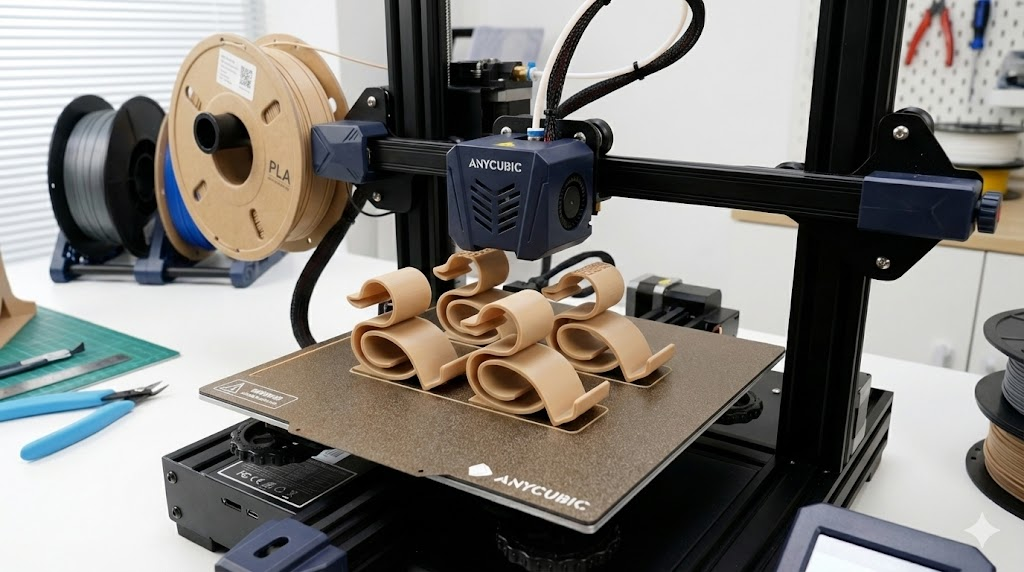
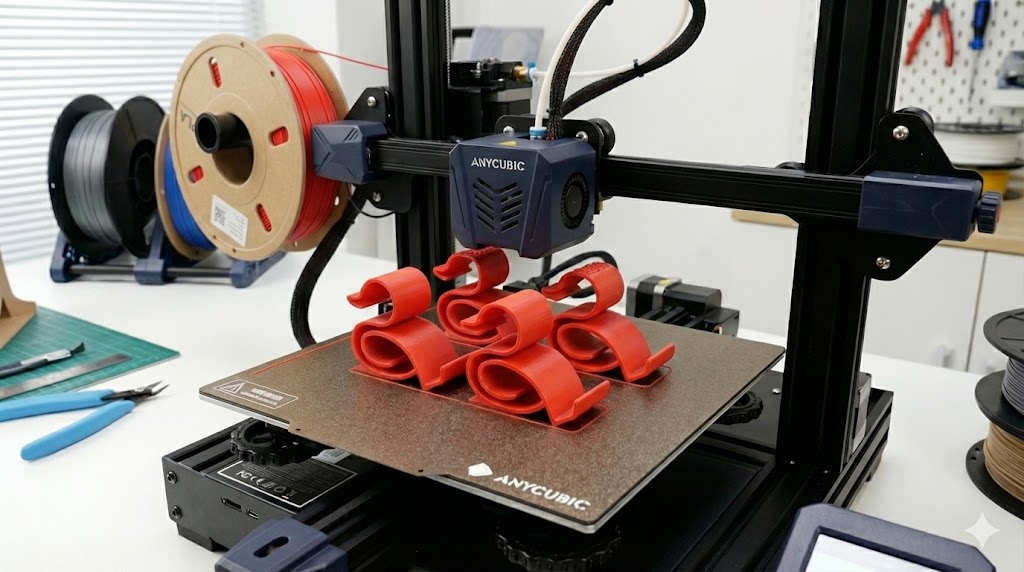
chore: make it red

diff --git a/index.html b/index.html
@@ -44,7 +44,7 @@
             </div>
             <div class="logo-text">
               <span>Zenika phone stand</span>
-              <small>support téléphone en PLA bois</small>
+              <small>support téléphone en PLA</small>
             </div>
           </div>
           <div class="nav-cta">
@@ -57,7 +57,7 @@
 
         <div class="hero-content">
           <div class="hero-copy">
-            <p class="tagline">Édition limitée · impression 3D PLA bois</p>
+            <p class="tagline">Édition limitée · impression 3D PLA</p>
             <h1>
               Le support de téléphone<br />
               qui fait parler la technologie.
@@ -65,11 +65,11 @@
             <p class="lead">
               Imaginé comme un petit totem de bureau, le Zenika phone stand est un produit né de la 
               collaboration de l'humain et de l'IA, modélisé sous Fusion&nbsp;360 puis
-              imprimé en filament PLA bois. 
+              imprimé en filament PLA biodégradable. 
               <br/>Un objet simple en apparence, qui a mobilisé compétences et expertises.
             </p>
             <ul class="hero-features">
-              <li>Grain de bois réel &amp; toucher doux</li>
+              <li>Grain fin &amp; toucher doux</li>
               <li>Imprimé localement en petite série</li>
               <li>Conçu pour embellir votre espace</li>
             </ul>
@@ -113,7 +113,7 @@
         <section class="section section-timeline" id="timeline">
           <div class="section-heading">
             <p class="eyebrow">Making-of</p>
-            <h2>De l’idée au support en PLA bois posé sur votre table.</h2>
+            <h2>De l’idée au support en PLA posé sur votre table.</h2>
           </div>
 
           <div class="timeline">
@@ -167,15 +167,17 @@
             <article class="timeline-item">
               <div class="timeline-dot"></div>
               <div class="timeline-content">
-                <h3>Impression 3D en PLA bois</h3>
+                <h3>Impression 3D en PLA</h3>
                 <p>
-                  Chaque pièce est imprimée en PLA bois, légèrement poncée et dépoussiérée.
+                  Chaque pièce est imprimée en PLA, légèrement poncée et dépoussiérée.
                   Le grain apparaît, la teinte se réchauffe, le support prend vie.
+                  Le PLA est un polymère biodégradable issu de l'amidon de maïs.
+                  Il est 100% recyclable et biodégradable.
                 </p>
               </div>
               <div class="timeline-media">
                 <div class="placeholder">
-                  <img src="src/assets/print.jpg" alt="Impression 3D en PLA bois">
+                  <img src="src/assets/print.jpg" alt="Impression 3D en PLA">
                 </div>
               </div>
             </article>
@@ -204,6 +206,39 @@
               <div class="timeline-media">
                 <div class="placeholder">
                   <img src="src/assets/boite.jpg" alt="Scène de shooting & packaging">
+                </div>
+              </div>
+            </article>
+
+            <article class="timeline-item">
+              <div class="timeline-dot"></div>
+              <div class="timeline-content">
+                <h3>Génération de votre invitation</h3>
+                <p>
+                  Nous tenions a vous permettre de comprendre comment se produit à été
+                  conçu. Pour ca, il nous fallait un outils de communication élégant.
+                </p>
+                
+                <div class="tool-duo">
+                  <span class="tool-label">Moodboard imaginé avec</span>
+                  <div class="tool-logos">
+                    <span class="tool-logo tool-logo--claude">
+                      <img src="src/assets/claude.png" alt="Claude" />
+                    </span>
+                    <span class="tool-featuring">×</span>
+                    <span class="tool-logo tool-logo--canva">
+                      <img src="src/assets/canva.png" alt="Canva MCP" />
+                    </span>
+                    <span class="tool-featuring">×</span>
+                    <span class="tool-logo tool-logo--nanobanana">
+                      <img src="src/assets/banana.png" alt="Nano Banana" />
+                    </span>
+                  </div>
+                </div>
+              </div>
+              <div class="timeline-media">
+                <div class="placeholder">
+                  <img src="src/assets/card.jpg" alt="Notre carte de visite">
                 </div>
               </div>
             </article>
@@ -242,29 +277,29 @@
         <section class="section section-eco" id="eco">
           <div class="section-heading">
             <p class="eyebrow">Matière & impact</p>
-            <h2>Un objet pensé durable, imprimé en PLA bois.</h2>
+            <h2>Un objet pensé durable, imprimé en materiaux biodégradables.</h2>
           </div>
 
           <div class="eco-grid">
             <div class="eco-copy">
               <p>
-                Le Zenika phone stand est imprimé en filament PLA bois : une base biosourcée issue
-                d’amidon de maïs, chargée en fibres de bois recyclées. 
+                Le Zenika phone stand est imprimé en filament PLA : une base biosourcée issue
+                d’amidon de maïs. 
                 <br/>Résultat&nbsp;:
                 un grain chaleureux, un toucher mat et une empreinte maîtrisée par rapport
                 aux plastiques classiques.
               </p>
               <ul class="eco-points">
                 <li>Production en petite série, ajustée au nombre de supports nécessaires.</li>
-                <li>Pièces monomatériau, faciles à trier et à recycler en fin de vie. <br/>PLA bois = PLA biodégradable.</li>
+                <li>Pièces monomatériau, faciles à trier et à recycler en fin de vie.</li>
                 <li>Impression locale pour limiter les transports inutiles.</li>
               </ul>
             </div>
 
             <div class="eco-cards">
               <article class="eco-card">
-                <h3>PLA bois</h3>
-                <p>Filament biosourcé, chargé en particules de bois pour le grain et l’odeur.</p>
+                <h3>PLA</h3>
+                <p>Filament biosourcé, sans odeur, sans composé toxique.</p>
               </article>
               <article class="eco-card">
                 <h3>Temps juste</h3>
@@ -307,7 +342,7 @@
           <div class="footer-brand">
             <div class="logo">
               <span>Zenika phone stand</span>
-              <small>support téléphone en PLA bois</small>
+              <small>support téléphone en PLA</small>
             </div>
             <p class="footer-tagline">
               Des objets pensés pour durer,<br>imprimés avec soin en France.

diff --git a/src/styles/main.css b/src/styles/main.css
@@ -88,6 +88,7 @@
     font-weight: 600;
     letter-spacing: 0.25em;
     font-size: 0.9rem;
+    opacity: 0.8;
   }
 
   .logo small {
